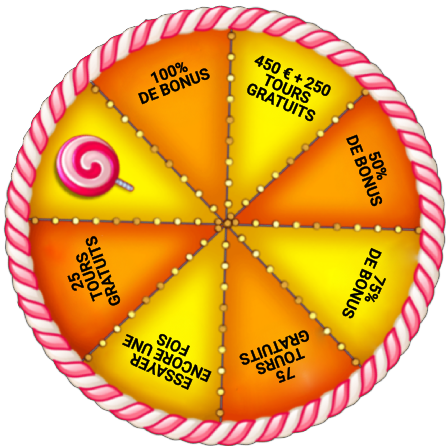
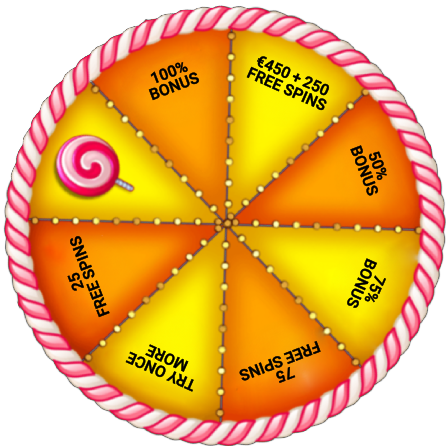
3 is done

diff --git a/3/index.html b/3/index.html
@@ -1,4 +1,4 @@
-<html lang="fr">
+<html lang="en">
 	<head>
 		<meta http-equiv="Content-Type" content="text/html; charset=UTF-8" />
 
@@ -16,7 +16,7 @@
 		<meta property="og:image" content="" />
 		<meta property="og:image:alt" content="" />
 		<meta property="og:description" content="" />
-		<meta property="og:locale" content="fr_FR" />
+		<meta property="og:locale" content="en_US" />
 		<link href="./static/css/main.css" rel="stylesheet" />
 		<link rel="preconnect" href="https://fonts.googleapis.com" />
 		<link rel="preconnect" href="https://fonts.gstatic.com" crossorigin />
@@ -31,9 +31,7 @@
 			<div class="header">
 				<img class="header__logo" src="./static/media/logo.svg" alt="logo" />
 				<!-- <div id="animated-text">SPIN TO WIN</div> -->
-				<h1 data-heading="Tourner Pour Gagner" contenteditable>
-					Tourner Pour Gagner
-				</h1>
+				<h1 data-heading="SPIN TO WIN" contenteditable>SPIN TO WIN</h1>
 			</div>
 			<main class="wheel">
 				<section class="wheel__content">
@@ -132,17 +130,17 @@
 						alt=""
 					/>
 					<h2 class="popup__title">
-						FÉLICITATIONS
-						<br />VOS GAINS TOTALS SONT:
+						CONGRATULATIONS
+						<br />YOUR TOTAL WINNINGS ARE:
 					</h2>
 					<!-- <p class="popup__text big-bonus-text">100% bonus</p> -->
 					<p class="popup__text">
-						450 € + <span class="up-to">250 Tours Gratuits</span>!
+						€450 + <span class="up-to">250 Free Spins</span>!
 					</p>
 					<a
 						class="clickout button popup__button"
 						href="https://lukyday.xyz/click"
-						>Réclamez maintenant</a
+						>Claim Now</a
 					>
 				</section>
 			</section>

diff --git a/3/static/css/main.css b/3/static/css/main.css
@@ -1047,9 +1047,6 @@ button {
 		margin: 20px 10px 0;
 		max-height: 30px;
 	}
-	.header h1 {
-		font-size: 1.6rem;
-	}
 	.header__logo {
 		height: 40px;
 	}
